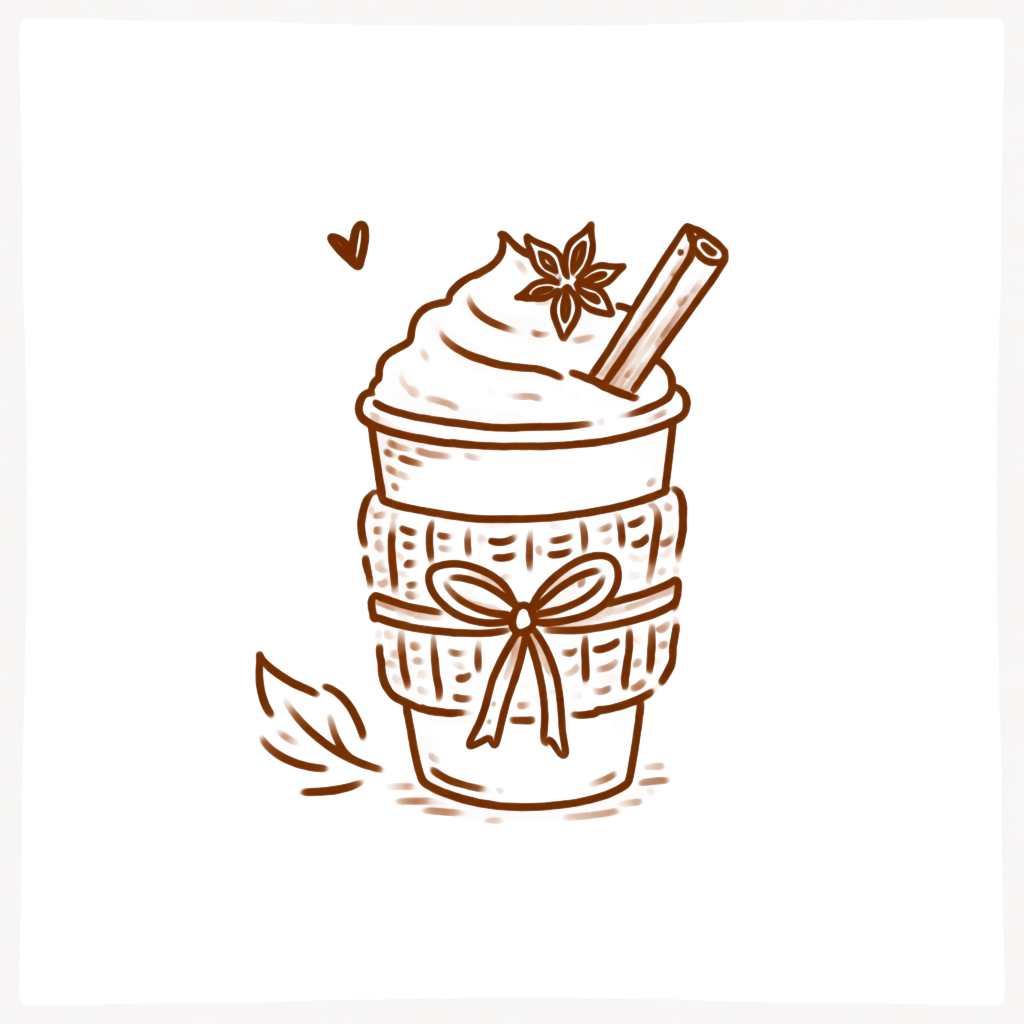
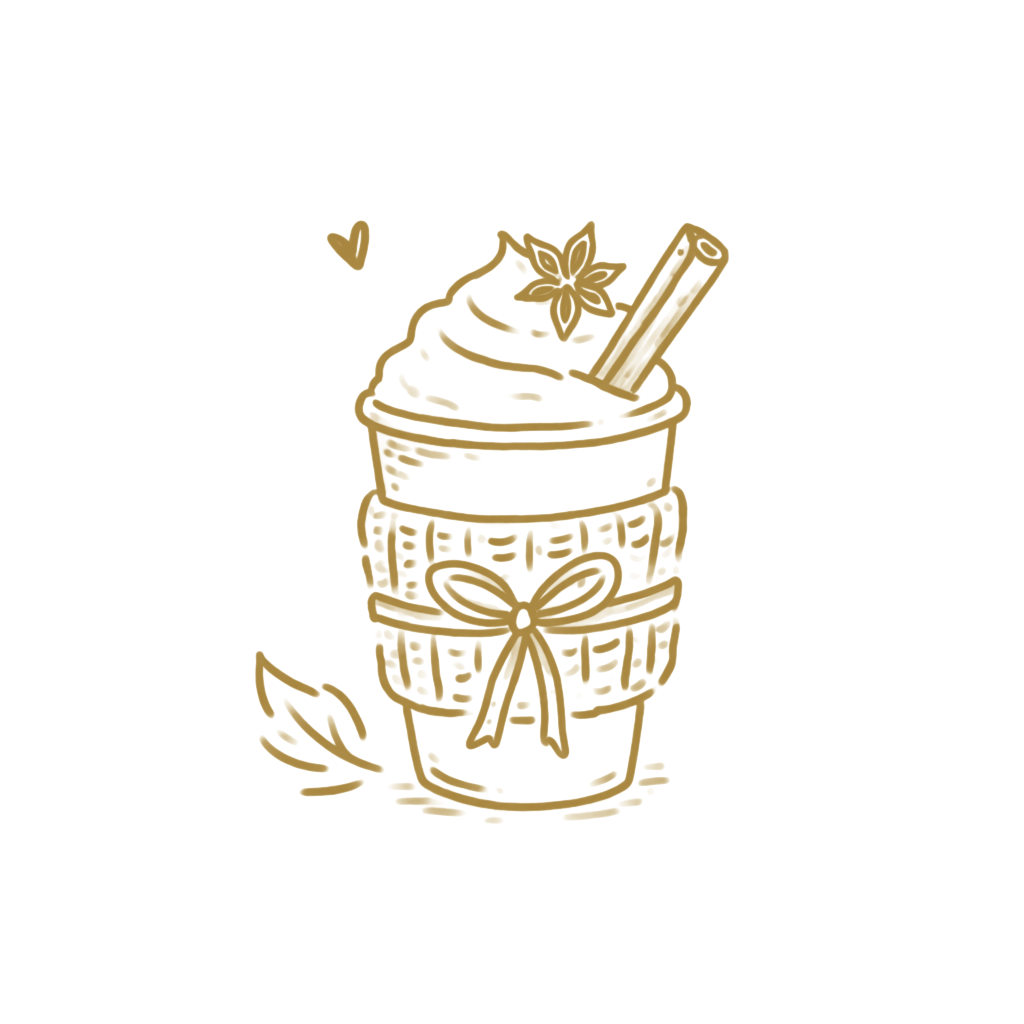
The seal's drink — gold like the ring, one per season (#54) (#56)
* The seal's drink — gold like the ring, one per season (#54)

The drink inside the sidebar seal was a coloured illustration rendered with
mix-blend-mode: multiply — on the dark green seal that crushes it to a dark
smudge. All nine coffee drawings are now gold duotones (luminance mapped to
a ramp between the ring's #A8863F and a pale gold, per-image range stretch
so each drawing keeps its detail), and the multiply is gone.

- .lavish/assets/coffee-*.png — recoloured (the tracked source of truth;
  dist copies are build output)
- component: the brew style drops mixBlendMode
- evidence: the seal before/after, and all four season drinks on the seal's
  green (winter cocoa, blossom tea, iced lemon-mint, spiced latte)

Verified: the four seasons map correctly (September -> the spiced latte),
each file's opaque pixels average gold, the live seal renders a legible gold
drink, the ring/rim/geometry untouched. 59 tests green.

* Gold drinks follow-up: no box, renormalised alpha, hash cache-bust

- the fall drink carried a pale 21% wash across its square (invisible under
  multiply, a visible box once the art went gold) — the wash is subtracted
  from the alpha and the alpha RESCALED so ink reaches 255 (the review found
  nothing fully opaque after the first subtraction, ~12% weaker rendering);
  coffee-3 (an opaque-white plate variant) is now a proper luminance-keyed
  cutout before the recolour
- the brew URL carries a content-hash cache-bust (?v=<md5 of the nine art
[…]

Changed region(s): [[0.25, 0.2188, 0.7188, 0.8125], [0.3125, 0.2188, 0.375, 0.2812], [0.375, 0.3125, 0.4062, 0.3438]]

diff --git a/pipeline/design/app.html b/pipeline/design/app.html
@@ -1304,8 +1304,11 @@ class Component extends DCLogic {
       :'Empty. Mark something read and it arrives.';
 
     const brew=(function(){const b=BREWS.filter(x=>x.m.indexOf(new Date().getMonth())>-1)[0]||BREWS[3];
+      /* #54: the drinks are gold duotones now — no multiply (it crushed the art
+         into the dark green seal and made it invisible). The ?v= busts the
+         browser cache when the art changes (the file name never does). */
       return {...b,style:{position:'absolute',left:'50%',top:'50%',transform:'translate(-50%,-50%)',width:'104px',height:'104px',
-        backgroundImage:'url("'+b.img+'")',backgroundSize:'contain',backgroundRepeat:'no-repeat',backgroundPosition:'center',mixBlendMode:'multiply'}};})();
+        backgroundImage:'url("'+b.img+'?v=8af707e0")',backgroundSize:'contain',backgroundRepeat:'no-repeat',backgroundPosition:'center'}};})();
 
     return {
       /* nav + shell */
